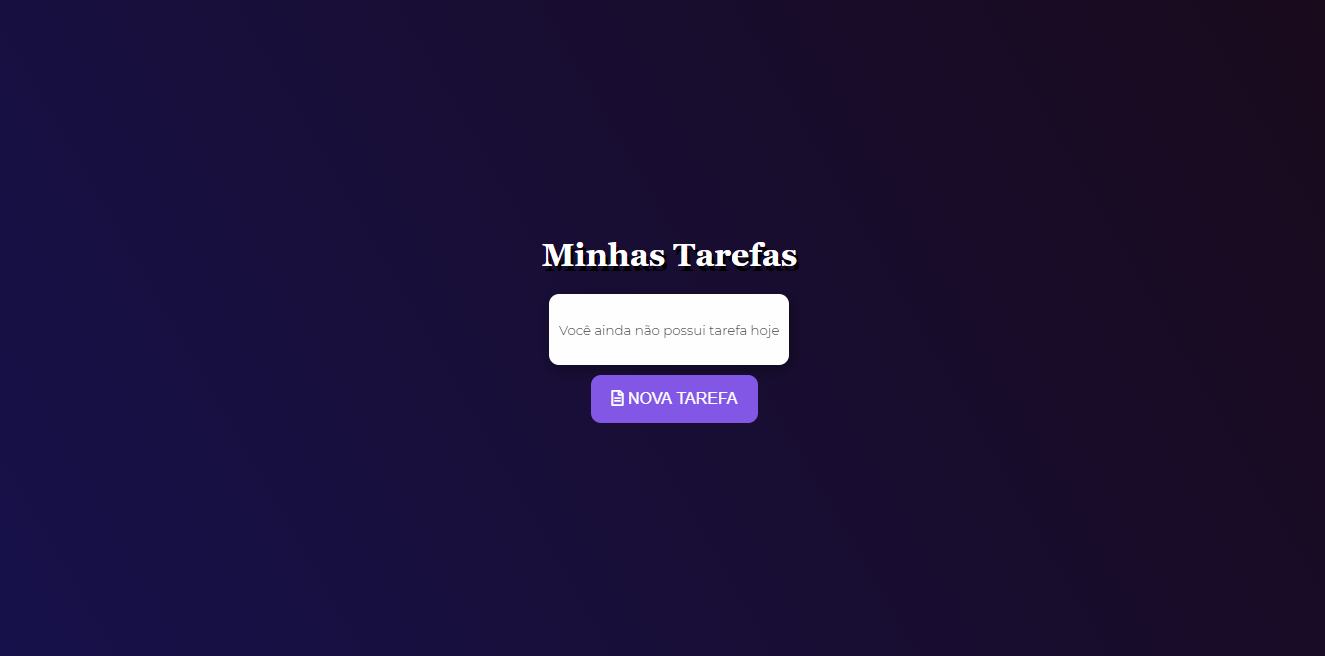
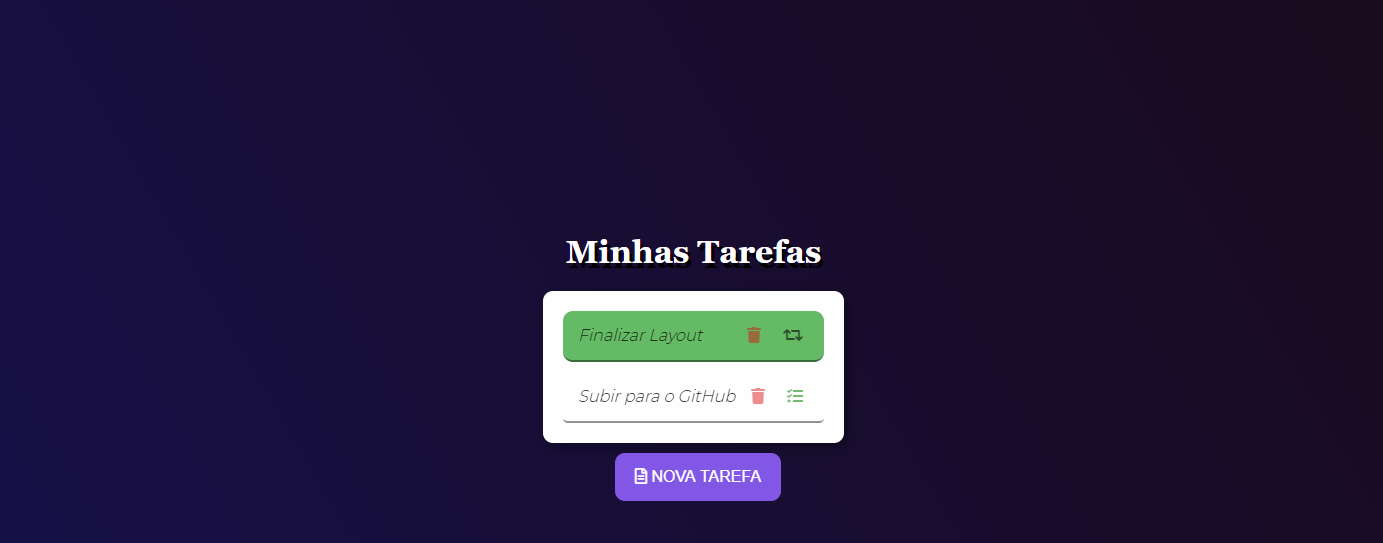
feat: ajuste no layout

Changed region(s): [[0.3713, 0.442, 0.6189, 0.9429], [0.4023, 0.3536, 0.6189, 0.4125]]

diff --git a/src/styles.css b/src/styles.css
@@ -34,7 +34,7 @@ li {
   margin: 10px;
   font-size: 1em;
   font-style: italic;
-  border-bottom: 2px solid rgba(0, 0, 0, 0.2);
+  border-bottom: 2px solid rgba(0, 0, 0, 0.432);
 }
 
 li > button {
